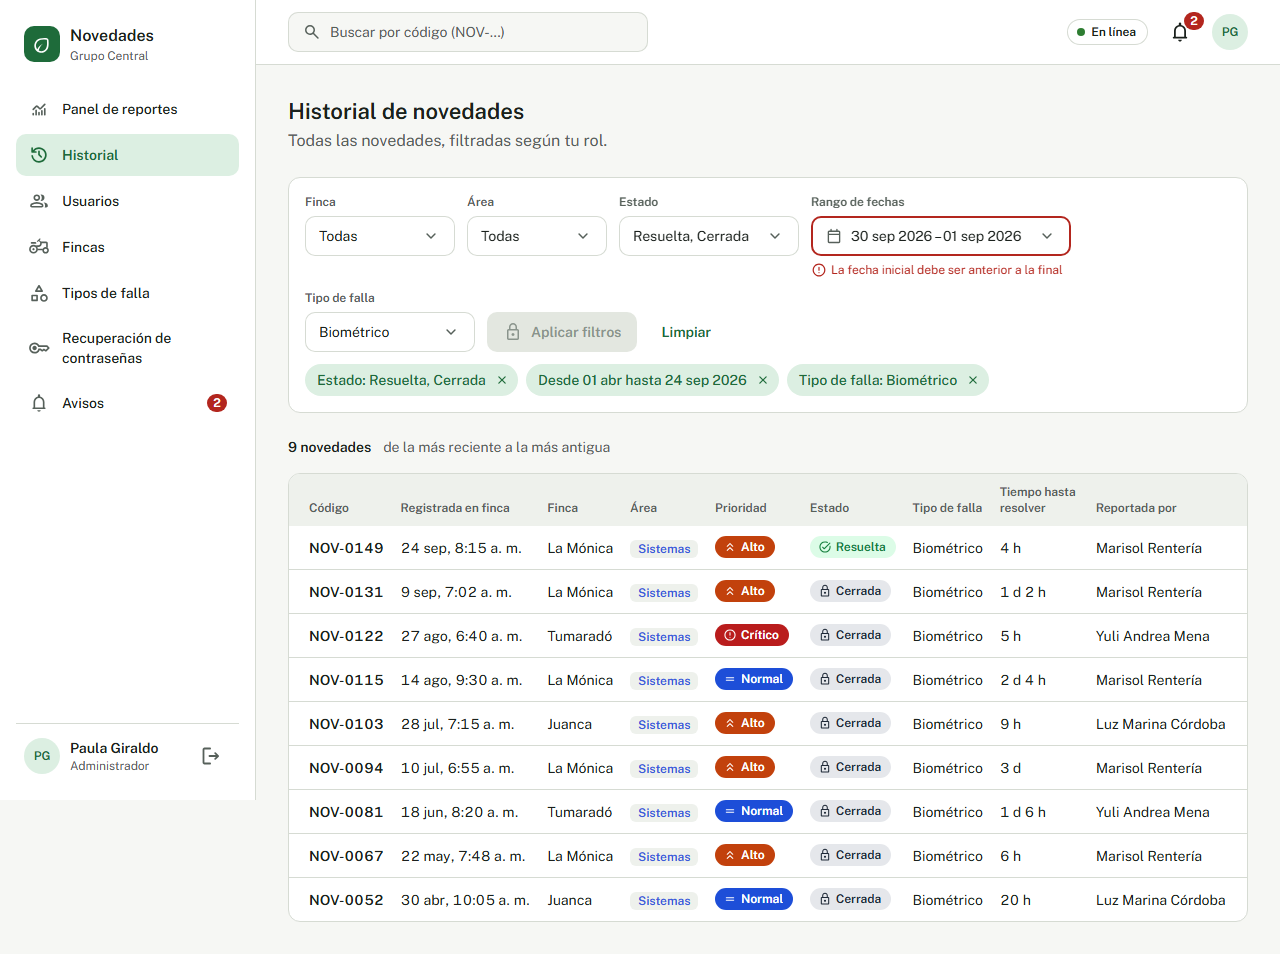
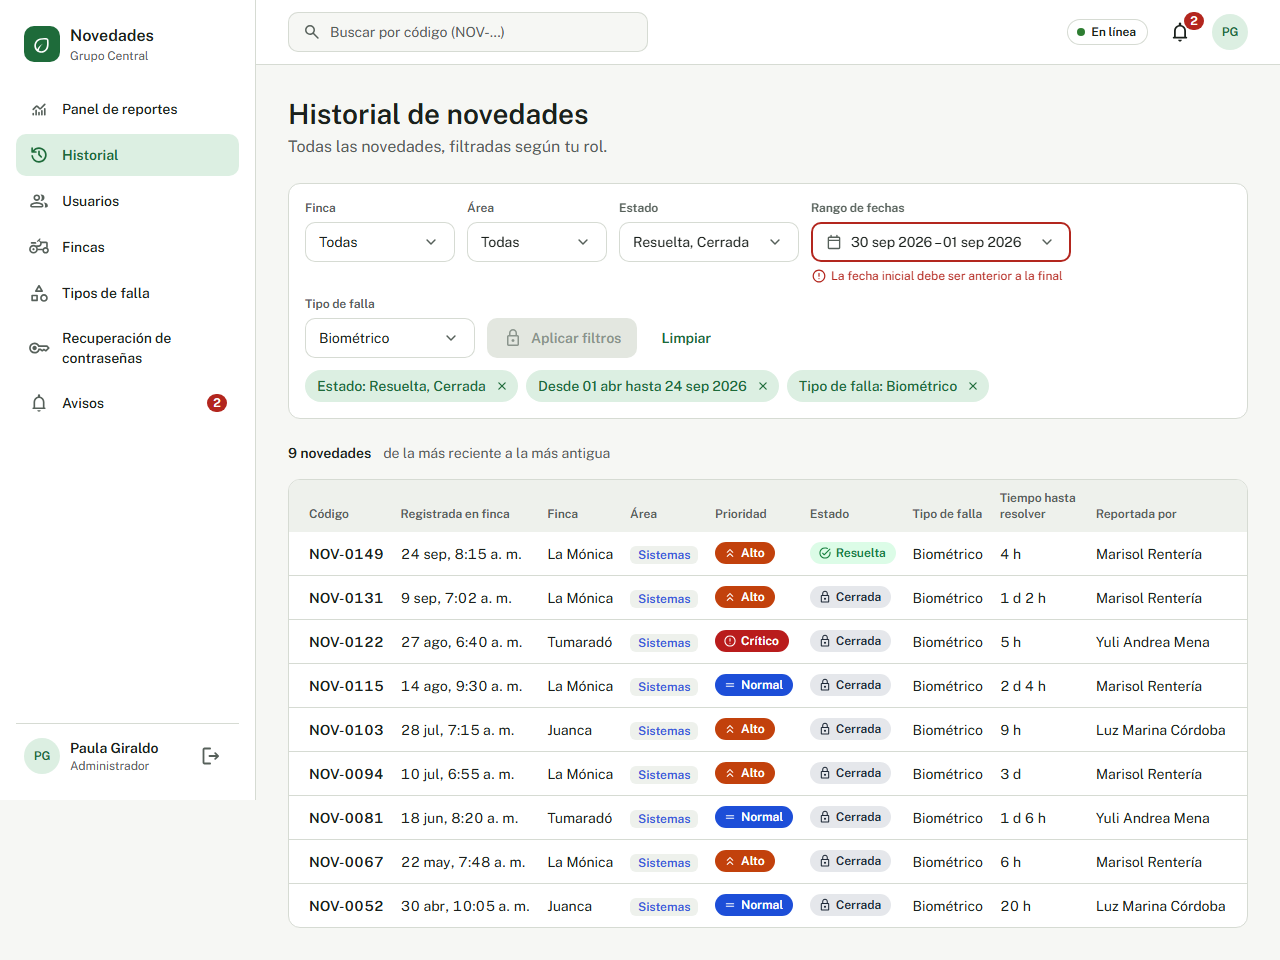
fix(RF-19): el título del historial con el tamaño de Figma en el escritorio
En el escritorio, «Historial de novedades» usa text-display (28/34), como
los títulos de Usuarios, Fincas y la bandeja y como Figma 21. Capturas al día.

diff --git a/src/modules/e4-consulta/Historial.jsx b/src/modules/e4-consulta/Historial.jsx
@@ -273,7 +273,9 @@ export default function Historial() {
   return (
     <section className="flex flex-1 flex-col gap-4 px-4 pt-4 pb-24 lg:gap-6 lg:px-8 lg:py-8">
       <div className="flex flex-col gap-1">
-        <h1 className="sr-only text-titulo text-texto lg:not-sr-only">Historial de novedades</h1>
+        <h1 className="sr-only text-titulo text-texto lg:not-sr-only lg:text-display">
+          Historial de novedades
+        </h1>
         <p className="hidden text-cuerpo text-texto-secundario lg:block">
           Todas las novedades, filtradas según tu rol.
         </p>
